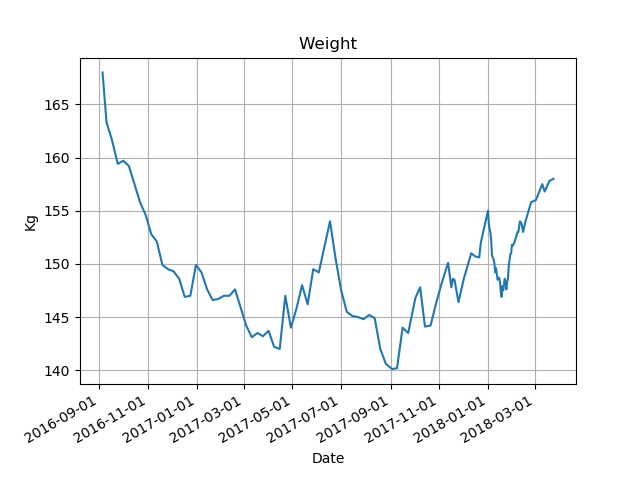
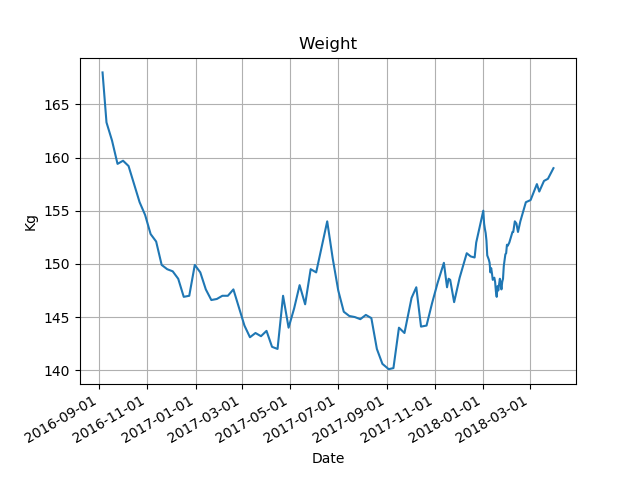
Week 13 update

Changed region(s): [[0.2188, 0.3438, 0.875, 0.7812], [0.125, 0.8125, 0.8438, 0.9375], [0.1875, 0.3438, 0.2188, 0.4062]]

diff --git a/index.html b/index.html
@@ -34,6 +34,14 @@
   </thead>
   <tbody>
     <tr>
+      <th>2018-03-31</th>
+      <td>159.0</td>
+      <td>1.0</td>
+      <td>-9.0</td>
+      <td>47.5</td>
+      <td>1.9</td>
+    </tr>
+    <tr>
       <th>2018-03-24</th>
       <td>158.0</td>
       <td>0.2</td>
